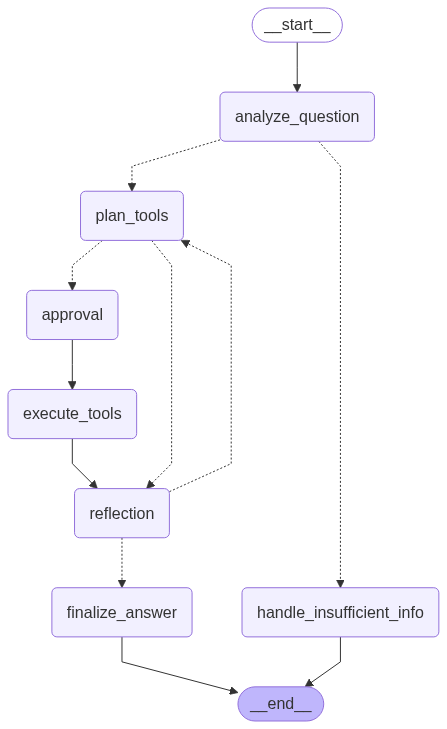
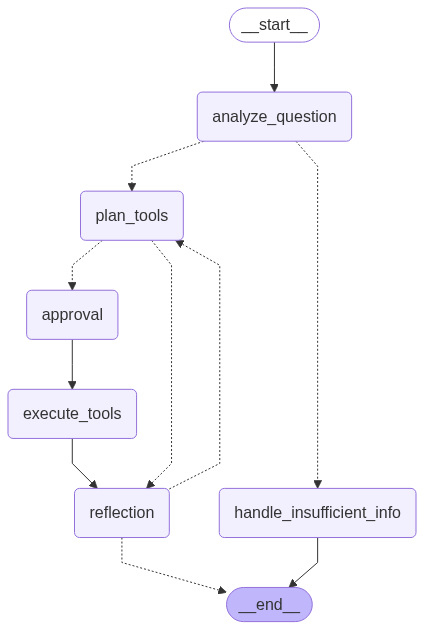
修改图

diff --git a/backend/src/agents/diagnostic_agent/graph.py b/backend/src/agents/diagnostic_agent/graph.py
@@ -14,8 +14,8 @@ from langchain_core.messages import SystemMessage, AIMessage, ToolMessage
 from langchain_core.runnables import RunnableConfig
 from .configuration import Configuration
 from .state import (DiagnosticState,QuestionAnalysis,DiagnosisProgress,SOPDetail,SOPStep)
-from .prompts import (get_current_datetime,get_question_analysis_prompt,get_missing_info_prompt,tool_planning_instructions,diagnosis_report_instructions)
-from .schemas import QuestionInfoExtraction
+from .prompts import (get_current_datetime,get_question_analysis_prompt,get_missing_info_prompt,tool_planning_instructions,diagnosis_report_instructions,reflection_instructions)
+from .schemas import QuestionInfoExtraction, DiagnosisReflectionOutput
 from .tools import all_tools
 from .utils import (merge_field, check_approval_needed, is_already_approved,process_sop_loading, update_diagnosis_step, check_diagnosis_completion,check_info_sufficient, check_tool_calls)
 logger = logging.getLogger(__name__)
@@ -24,10 +24,16 @@ logger = logging.getLogger(__name__)
 # 节点函数 - 参考调研agent的清晰结构
 def analyze_question_node(state: DiagnosticState, config: RunnableConfig) -> Dict[str, Any]:
     """问题分析节点 - 支持多轮补充四要素"""
+    print(f"✅ 执行节点: analyze_question_node")
     configurable = Configuration.from_runnable_config(config)
-    llm = configurable.create_llm(model_name=configurable.query_generator_model,temperature=configurable.question_analysis_temperature)
+    
     messages = state.get("messages", [])
     user_question = messages[-1].content if messages else ""
+    report_generated = state.get("report_generated", False)
+    
+    
+    # 四要素分析流程
+    llm = configurable.create_llm(model_name=configurable.query_generator_model,temperature=configurable.question_analysis_temperature)
     # 获取当前已有的四要素信息
     current_analysis = state.get("question_analysis", QuestionAnalysis())
     # 使用提示词模板函数生成提示词
@@ -71,6 +77,7 @@ def analyze_question_node(state: DiagnosticState, config: RunnableConfig) -> Dic
 
 def plan_diagnosis_tools_node(state: DiagnosticState, config: RunnableConfig) -> Dict[str, Any]:
     """工具规划节点 - 严格按照SOP执行"""
+    print(f"✅ 执行节点: plan_diagnosis_tools_node")
     configurable = Configuration.from_runnable_config(config)
     llm = configurable.create_llm(model_name=configurable.query_generator_model,temperature=configurable.tool_planning_temperature)
     # 绑定工具到LLM
@@ -110,6 +117,7 @@ def approval_node(state: DiagnosticState, config: RunnableConfig) -> Dict[str, A
     2. 检查是否已审批过  
     3. 执行审批流程
     """
+    print(f"✅ 执行节点: approval_node")
     # 1. 检查是否需要审批
     approval_info = check_approval_needed(state)
     if not approval_info: return {}  # 无需审批，直接继续
@@ -169,11 +177,16 @@ def approval_node(state: DiagnosticState, config: RunnableConfig) -> Dict[str, A
 
 
 def reflect_diagnosis_progress_node(state: DiagnosticState, config: RunnableConfig) -> Dict[str, Any]:
-    """诊断反思节点 - 简化版本"""
+    """诊断反思节点 - 使用LLM智能决策下一步行动"""
+    print(f"✅ 执行节点: reflect_diagnosis_progress_node")
+    configurable = Configuration.from_runnable_config(config)
+    
     # 获取当前状态
     diagnosis_progress = state.get("diagnosis_progress", DiagnosisProgress())
     sop_detail = state.get("sop_detail", SOPDetail())
     messages = state.get("messages", [])
+    question_analysis = state.get("question_analysis", QuestionAnalysis())
+    report_generated = state.get("report_generated", False)
     
     # 1. 处理SOP加载结果
     updated_sop_detail, sop_loaded = process_sop_loading(messages, sop_detail)
@@ -191,29 +204,117 @@ def reflect_diagnosis_progress_node(state: DiagnosticState, config: RunnableConf
         last_message = messages[-1]
         diagnosis_results.append(f"Tool: {last_message.name}, Result: {last_message.content}")
     
-    # 4. 检查诊断完成状态
-    is_complete, termination_reason = check_diagnosis_completion(
-        current_step, diagnosis_progress.max_steps, updated_sop_detail
+    # 4. 获取用户最新输入
+    user_input = ""
+    if messages:
+        user_input = messages[-1].content if hasattr(messages[-1], 'content') else str(messages[-1])
+    
+    # 5. 使用LLM进行智能决策
+    llm = configurable.create_llm(
+        model_name=configurable.query_generator_model,
+        temperature=0.3
     )
     
-    # 5. 构建更新后的进度
-    updated_progress = DiagnosisProgress(
+    structured_llm = llm.with_structured_output(DiagnosisReflectionOutput)
+    
+    formatted_prompt = reflection_instructions.format(
+        fault_info=question_analysis.fault_info or '未提供',
         current_step=current_step,
-        max_steps=diagnosis_progress.max_steps,
-        is_complete=is_complete,
-        termination_reason=termination_reason
+        total_steps=updated_sop_detail.total_steps,
+        sop_state="loaded" if sop_loaded else "none",
+        report_generated=report_generated,
+        diagnosis_results='\n'.join(diagnosis_results[-5:]) if diagnosis_results else '无诊断结果',
+        user_input=user_input
     )
     
-    return {
-        "diagnosis_progress": updated_progress,
-        "diagnosis_results": diagnosis_results,
-        "sop_detail": updated_sop_detail,
-        "sop_loaded": sop_loaded
-    }
+    reflection_result = structured_llm.invoke(formatted_prompt)
+    logger.info(f"反思决策结果: {reflection_result.action}, 完成状态: {reflection_result.is_complete}")
+    
+    # 6. 根据LLM决策执行相应行动
+    if reflection_result.action == "answer_question":
+        # 基于历史信息回答用户追问
+        return {
+            "messages": [AIMessage(content=reflection_result.response_content)],
+            "diagnosis_progress": diagnosis_progress,
+            "diagnosis_results": diagnosis_results,
+            "sop_detail": updated_sop_detail,
+            "sop_loaded": sop_loaded
+        }
+    
+    elif reflection_result.action == "generate_report":
+        # 生成诊断报告
+        logger.info("LLM决策：生成诊断报告")
+        
+        report_llm = configurable.create_llm(
+            model_name=configurable.answer_model,
+            temperature=configurable.final_report_temperature
+        )
+        
+        formatted_prompt = diagnosis_report_instructions.format(
+            current_date=get_current_datetime(),
+            fault_ip=question_analysis.fault_ip or '未提供',
+            fault_time=question_analysis.fault_time or '未提供',
+            fault_info=question_analysis.fault_info or '未提供',
+            sop_id=question_analysis.sop_id or '未指定',
+            current_step=current_step,
+            total_steps=updated_sop_detail.total_steps,
+            completion_status='已完成',
+            diagnosis_results='\n'.join(diagnosis_results) if diagnosis_results else '未进行诊断'
+        )
+        
+        response = report_llm.invoke(formatted_prompt)
+        
+        final_message = f"""
+{response.content}
+
+📊 诊断执行摘要：
+- 使用SOP：{question_analysis.sop_id}
+- 执行步骤：{current_step}/{updated_sop_detail.total_steps}
+- 完成状态：✅ 已完成
+
+⚠ 重要提醒：
+以上诊断结果基于SOP执行。在执行任何操作前，请确认系统状态并评估风险。
+"""
+        
+        updated_progress = DiagnosisProgress(
+            current_step=current_step,
+            max_steps=diagnosis_progress.max_steps,
+            is_complete=True,
+            termination_reason=reflection_result.termination_reason
+        )
+        
+        return {
+            "messages": [AIMessage(content=final_message)],
+            "diagnosis_progress": updated_progress,
+            "diagnosis_results": diagnosis_results,
+            "sop_detail": updated_sop_detail,
+            "sop_loaded": sop_loaded,
+            "final_diagnosis": response.content,
+            "report_generated": True
+        }
+    
+    else:  # continue
+        # 继续诊断
+        logger.info("LLM决策：继续诊断")
+        
+        updated_progress = DiagnosisProgress(
+            current_step=current_step,
+            max_steps=diagnosis_progress.max_steps,
+            is_complete=False,
+            termination_reason="continue"
+        )
+        
+        return {
+            "diagnosis_progress": updated_progress,
+            "diagnosis_results": diagnosis_results,
+            "sop_detail": updated_sop_detail,
+            "sop_loaded": sop_loaded
+        }
 
 
 def handle_insufficient_info_node(state: DiagnosticState, config: RunnableConfig) -> Dict[str, Any]:
     """处理信息不足的情况，提示用户补充缺失信息"""
+    print(f"✅ 执行节点: handle_insufficient_info_node")
     question_analysis = state.get("question_analysis", QuestionAnalysis())
     
     # 使用提示词模板函数生成缺失信息提示
@@ -226,6 +327,7 @@ def handle_insufficient_info_node(state: DiagnosticState, config: RunnableConfig
 
 def finalize_diagnosis_report_node(state: DiagnosticState, config: RunnableConfig) -> Dict[str, Any]:
     """智能最终回答节点 - 支持SOP诊断、运维问答、普通聊天"""
+    print(f"✅ 执行节点: finalize_diagnosis_report_node")
     configurable = Configuration.from_runnable_config(config)
     
     # 获取状态信息
@@ -353,25 +455,34 @@ def build_conversation_context(messages, diagnosis_results):
 # 路由函数 - 简化版本
 def evaluate_diagnosis_progress(state: DiagnosticState, config: RunnableConfig) -> str:
     """评估诊断进度，根据执行情况决定下一步"""
+    print(f"✅ 执行路由函数: evaluate_diagnosis_progress")
     diagnosis_progress = state.get("diagnosis_progress", DiagnosisProgress())
     
     # 如果诊断已标记为完成，直接结束
     if diagnosis_progress.is_complete:
-        logger.info(f"诊断完成: {diagnosis_progress.termination_reason}")
-        return "finalize_answer"
+        logger.info(f"诊断完成，流程结束: {diagnosis_progress.termination_reason}")
+        print(f"✅ 路由结果: END (诊断完成)")
+        return END
     
     # 安全检查：防止无限循环
     if diagnosis_progress.current_step >= diagnosis_progress.max_steps:
         logger.warning(f"达到最大步骤限制，强制结束: {diagnosis_progress.current_step}/{diagnosis_progress.max_steps}")
-        return "finalize_answer"
+        print(f"✅ 路由结果: END (达到最大步骤)")
+        return END
     
     # 继续执行下一步
     logger.info(f"继续执行，当前步骤: {diagnosis_progress.current_step}")
+    print(f"✅ 路由结果: plan_tools (继续诊断)")
     return "plan_tools"
 
 
 # 创建工具执行节点
 tool_node = ToolNode(all_tools)
+
+# 包装工具节点以添加打印
+def execute_tools_node(state, config):
+    print(f"✅ 执行节点: execute_tools_node")
+    return tool_node.invoke(state, config)
 # 创建诊断Agent图 - 简化版本
 builder = StateGraph(DiagnosticState, config_schema=Configuration)
 # 添加节点
@@ -379,9 +490,8 @@ builder.add_node("analyze_question", analyze_question_node)
 builder.add_node("handle_insufficient_info", handle_insufficient_info_node)
 builder.add_node("plan_tools", plan_diagnosis_tools_node)
 builder.add_node("approval", approval_node)
-builder.add_node("execute_tools", tool_node)
+builder.add_node("execute_tools", execute_tools_node)
 builder.add_node("reflection", reflect_diagnosis_progress_node)
-builder.add_node("finalize_answer", finalize_diagnosis_report_node)
 builder.add_edge(START, "analyze_question")
 builder.add_conditional_edges("analyze_question", check_info_sufficient, ["plan_tools", "handle_insufficient_info"])
 # 修改：信息不足时等待用户补充，用户补充后重新回到analyze_question分析
@@ -389,8 +499,7 @@ builder.add_edge("handle_insufficient_info", END)
 builder.add_conditional_edges("plan_tools",check_tool_calls,{"approval": "approval","reflection": "reflection"})
 builder.add_edge("approval", "execute_tools")
 builder.add_edge("execute_tools", "reflection")
-builder.add_conditional_edges("reflection", evaluate_diagnosis_progress, ["plan_tools", "finalize_answer"])
-builder.add_edge("finalize_answer", END)
+builder.add_conditional_edges("reflection", evaluate_diagnosis_progress, ["plan_tools", END])
 
 
 # 编译图 - 根据环境变量决定是否使用checkpointer
@@ -398,6 +507,12 @@ checkpointer_type = os.getenv("CHECKPOINTER_TYPE", "memory")
 
 if checkpointer_type == "postgres":
     # PostgreSQL模式：不在这里编译，在API请求时用async with编译
+    graph = builder.compile( name="diagnostic-agent")
+    graph_image = graph.get_graph().draw_mermaid_png()
+    # 获取当前文件所在目录并保存图片
+    current_dir = os.path.dirname(os.path.abspath(__file__))
+    graph_image_path = os.path.join(current_dir, "graph.png")
+    with open(graph_image_path, "wb") as f: f.write(graph_image)
     graph = None
     print("📝 PostgreSQL模式：图将在API请求时用async with编译")
 else:

diff --git a/backend/src/agents/diagnostic_agent/schemas.py b/backend/src/agents/diagnostic_agent/schemas.py
@@ -21,12 +21,10 @@ class QuestionInfoExtraction(BaseModel):
 
 
 class DiagnosisReflectionOutput(BaseModel):
-    """诊断反思输出的结构化模式 - 按SOP顺序执行，找到根因可提前结束"""
-    is_complete: bool = Field(description="是否可以结束诊断（找到根因或完成所有SOP步骤）")
-    sop_steps_completed: List[str] = Field(description="已完成的SOP步骤")
-    sop_steps_remaining: List[str] = Field(description="还需执行的SOP步骤")
-    root_cause_found: bool = Field(description="是否找到了明确的根因")
-    root_cause_analysis: str = Field(description="根因分析结果")
-    next_steps: List[str] = Field(description="下一个需要执行的SOP步骤")
-    user_recommendations: List[str] = Field(description="基于当前结果给用户的建议")
-    termination_reason: str = Field(description="结束原因：root_cause_found（找到根因）或 sop_completed（完成所有SOP）或 continue（继续诊断）")
+    """诊断反思输出的结构化模式 - 智能决策下一步行动"""
+    action: str = Field(description="下一步行动：continue/generate_report/answer_question")
+    is_complete: bool = Field(description="诊断是否完成")
+    should_generate_report: bool = Field(description="是否需要生成报告")
+    root_cause_found: bool = Field(description="是否找到根因")
+    response_content: str = Field(description="具体回复内容（如果是answer_question）", default="")
+    termination_reason: str = Field(description="continue/sop_completed/root_cause_found")

diff --git a/backend/src/agents/diagnostic_agent/utils.py b/backend/src/agents/diagnostic_agent/utils.py
@@ -277,22 +277,29 @@ def check_diagnosis_completion(current_step, max_steps, sop_detail):
 
 def check_info_sufficient(state):
     """检查信息是否充足"""
+    print(f"✅ 执行路由函数: check_info_sufficient")
     from .state import QuestionAnalysis
     question_analysis = state.get("question_analysis", QuestionAnalysis())
     if question_analysis.info_sufficient:
+        print(f"✅ 路由结果: plan_tools")
         return "plan_tools"
     else:
+        print(f"✅ 路由结果: handle_insufficient_info")
         return "handle_insufficient_info"
 
 
 def check_tool_calls(state):
     """检查是否有工具调用"""
+    print(f"✅ 执行路由函数: check_tool_calls")
     messages = state.get("messages", [])
     if not messages:
+        print(f"✅ 路由结果: reflection (无消息)")
         return "reflection"
     
     last_message = messages[-1]
     if hasattr(last_message, 'tool_calls') and last_message.tool_calls:
+        print(f"✅ 路由结果: approval (有工具调用)")
         return "approval"
     else:
+        print(f"✅ 路由结果: reflection (无工具调用)")
         return "reflection"
